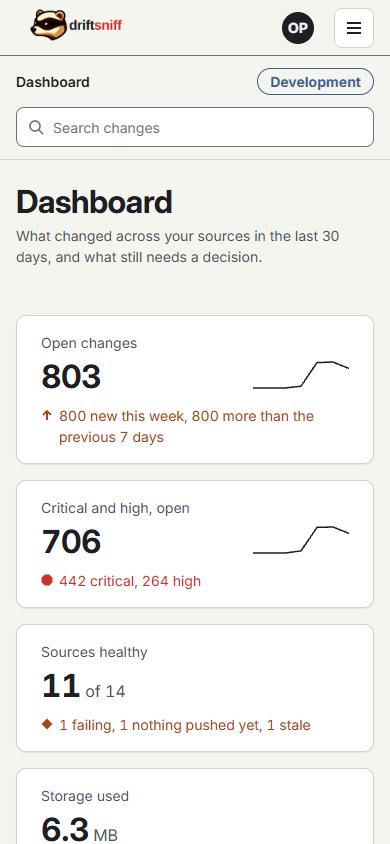
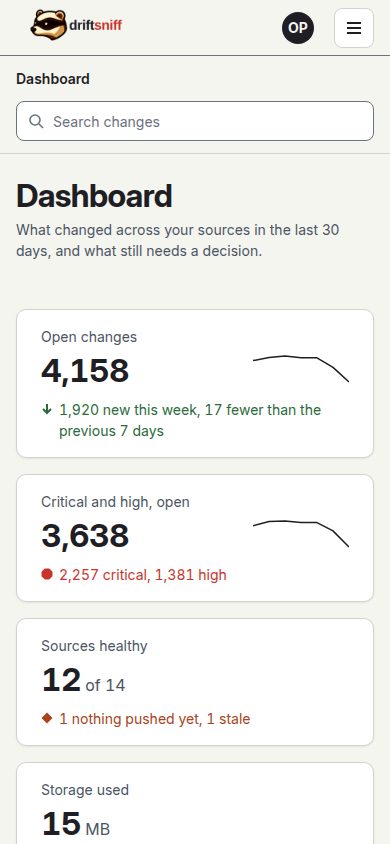
Screenshots of the 27.0.0 release build (first-release readiness)
All 30 documentation pictures taken again live on Development, build 347cb54
(driftsniff CE 27.0.0), with the Development role accounts only: current UI
(open changes wording, header, Sources filter bar, About card), same file names,
sizes, themes and roles; full-page captures follow the live page height. No blur:
solid black boxes hide one account row and five test token names on Settings and
a simulated source's address on the source page. The source page and the replay
now show a simulated Proxmox source, which has changes in the last 30 days.
docs/README.md and the user guide say what the pictures hold.

diff --git a/docs/README.md b/docs/README.md
@@ -74,4 +74,6 @@ package; the screenshots in this documentation show the built product.
 ## Screenshots
 
 All screenshots are in the `images` folder next to this file. They were taken on the Development
-site and hold synthetic test data only.
+site on 27 November 2026, on the 27.0.0 build, and hold synthetic test data and simulated sources
+only. Solid black boxes hide one account row and five test token names on the Settings page and the
+address of a simulated source; nothing is blurred.

diff --git a/docs/user-guide.md b/docs/user-guide.md
@@ -3,7 +3,7 @@
 For Driftsniff CE 27.0.0.
 
 Screenshots taken on the Development site, synthetic data: the source called "DEV-FIXTURE
-synthetic (removable)" and every object named FIXTURE are test data, not a real network.
+synthetic (removable)" and every object named FIXTURE are test data, and the sources whose names start with SIM are simulated systems, not a real network.
 
 All times in driftsniff are UTC. A relative time ("1 day ago") shows the exact UTC time when you
 point at it.
